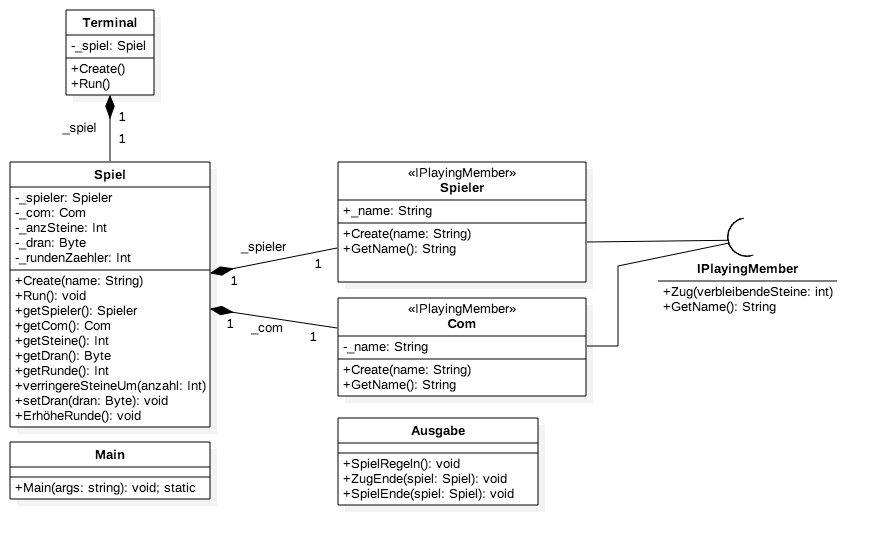
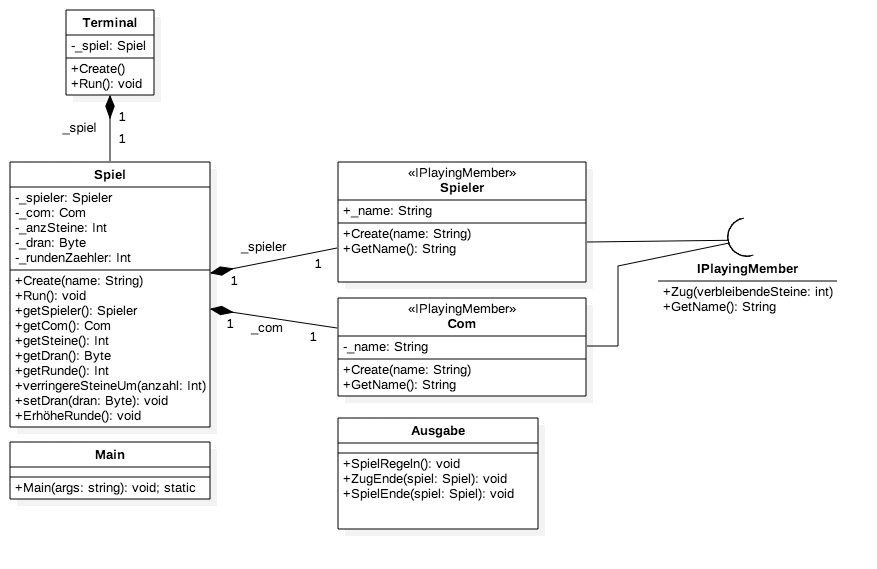
OOP-Prak-A1
- comments # formatted code # corrected authors + useful comments

diff --git a/NimmSpiel/NimmSpiel/src/nimmspiel/Terminal.java b/NimmSpiel/NimmSpiel/src/nimmspiel/Terminal.java
@@ -1,8 +1,3 @@
-/*
- * To change this license header, choose License Headers in Project Properties.
- * To change this template file, choose Tools | Templates
- * and open the template in the editor.
- */
 package nimmspiel;
 
 /**
@@ -10,34 +5,33 @@ package nimmspiel;
  * @author sirkpetzold
  */
 public class Terminal {
-    
+
     private Spiel _spiel;
-    
-    
+
     // Konstruktor, Instanziert das Feld _spiel und gibt die Spielregeln aus
-    public Terminal(){
+    public Terminal() {
         _spiel = new Spiel();
         Ausgabe.SpielRegeln();
     }
-    
+
     // Schleife bis keine Steine mehr ziehbar
-    public void Run()
-    {
+    public void Run() {
         Spieler aktSpieler;
         int abzuziehendeSteine;
-        while (_spiel.getSteine() > 0){
-            if (_spiel.getDran > 0)
-                aktSpieler = _spiel.getCom()
-            else
+        while (_spiel.getSteine() > 0) {
+            if (_spiel.getDran > 0) {
+                aktSpieler = _spiel.getCom();
+            } else {
                 aktSpieler = _spiel.getSpieler();
-            
+            }
+
             abzuziehendeSteine = aktSpieler.Zug();
             _spiel.verringereSteineUm(abzuziehendeSteine);
             _spiel.ErhoeheRunde();
-            _spiel.SetDran(1-_spiel.GetDran());
+            _spiel.SetDran(1 - _spiel.GetDran());
             Ausgabe.ZugEnde(_spiel);
         }
         Ausgabe.SpielEnde(spiel);
     }
-        
+
 }

diff --git a/NimmSpiel/NimmSpiel/src/nimmspiel/Com.java b/NimmSpiel/NimmSpiel/src/nimmspiel/Com.java
@@ -1,8 +1,3 @@
-/*
- * To change this license header, choose License Headers in Project Properties.
- * To change this template file, choose Tools | Templates
- * and open the template in the editor.
- */
 package nimmspiel;
 
 import java.math.*;
@@ -12,30 +7,29 @@ import java.util.Random;
  *
  * @author sirkpetzold
  */
-
 //Ableitung von Spieler, hat nur andere Zug-Methode
-public class Com implements IPlayingMember{
-   
+public class Com implements IPlayingMember {
+
     private String _name;
-    
-    public Com(String name){
+
+    // Konstruktor
+    public Com(String name) {
         _name = name;
     }
-    
+
     //Gibt die Anzahl abzuziehender Steine an
-    public int Zug(int verbleibendeSteine){  // Paramter notwendig, da sonst taktisches abziehen unmöglich
+    public int Zug(int verbleibendeSteine) {  // Paramter notwendig, da sonst taktisches abziehen unmöglich
         int abzug;
-        if (verbleibendeSteine >= 10){
+        if (verbleibendeSteine >= 10) {
             Random rndm = new Random();
             abzug = rndm.nextInt(3);
-        }else{
+        } else {
             abzug = 3 - verbleibendeSteine % 2;
         }
-        
+
         return abzug;
     }
 
-    @Override
     public String getName() {
         return _name;
     }

diff --git a/NimmSpiel/NimmSpiel/src/nimmspiel/Spieler.java b/NimmSpiel/NimmSpiel/src/nimmspiel/Spieler.java
@@ -1,16 +1,10 @@
 package nimmspiel;
 
-/*
- * To change this license header, choose License Headers in Project Properties.
- * To change this template file, choose Tools | Templates
- * and open the template in the editor.
- */
-
 /**
  *
- * @author sirkpetzold
+ * @author funbold
  */
-public class Spieler implements IPlayingMember{
+public class Spieler implements IPlayingMember {
 
     @Override
     public int Zug(int verbleibendeSteine) {
@@ -21,5 +15,5 @@ public class Spieler implements IPlayingMember{
     public String getName() {
         throw new UnsupportedOperationException("Not supported yet."); //To change body of generated methods, choose Tools | Templates.
     }
-    
+
 }

diff --git a/NimmSpiel/NimmSpiel/src/nimmspiel/IPlayingMember.java b/NimmSpiel/NimmSpiel/src/nimmspiel/IPlayingMember.java
@@ -1,17 +1,13 @@
-/*
- * To change this license header, choose License Headers in Project Properties.
- * To change this template file, choose Tools | Templates
- * and open the template in the editor.
- */
 package nimmspiel;
 
 /**
  *
  * @author sirkpetzold
  */
-
-// interface für die Zug-Methode
+/// interface für die Zug-Methode
 public interface IPlayingMember {
-    public int Zug(int verbleibendeSteine);
-    public String getName();
+
+    public int Zug(int verbleibendeSteine); // Methode die abzuziehende Steine zurückgibt
+
+    public String getName();                // Gibt den Namen zurück
 }

diff --git a/NimmSpiel/NimmSpiel/src/nimmspiel/Main.java b/NimmSpiel/NimmSpiel/src/nimmspiel/Main.java
@@ -1,21 +1,13 @@
-/*
- * To change this license header, choose License Headers in Project Properties.
- * To change this template file, choose Tools | Templates
- * and open the template in the editor.
- */
 package nimmspiel;
 
 /**
  *
- * @author sirkpetzold
+ * @author funbold
  */
 public class Main {
 
-    /**
-     * @param args the command line arguments
-     */
     public static void main(String[] args) {
         Terminal terminal = new Terminal();
     }
-    
+
 }

diff --git a/NimmSpiel/NimmSpiel/src/nimmspiel/Ausgabe.java b/NimmSpiel/NimmSpiel/src/nimmspiel/Ausgabe.java
@@ -1,14 +1,10 @@
-/*
- * To change this license header, choose License Headers in Project Properties.
- * To change this template file, choose Tools | Templates
- * and open the template in the editor.
- */
 package nimmspiel;
 
 /**
  *
- * @author sirkpetzold
+ * @author funbold
  */
+/// Gibt Informationstext aus
 public class Ausgabe {
-    
+    //alle Methoden static
 }

diff --git a/NimmSpiel/NimmSpiel/src/nimmspiel/Spiel.java b/NimmSpiel/NimmSpiel/src/nimmspiel/Spiel.java
@@ -1,13 +1,8 @@
-/*
- * To change this license header, choose License Headers in Project Properties.
- * To change this template file, choose Tools | Templates
- * and open the template in the editor.
- */
 package nimmspiel;
 
 /**
  *
- * @author sirkpetzold
+ * @author funbold
  */
 public class Spiel {
 	
